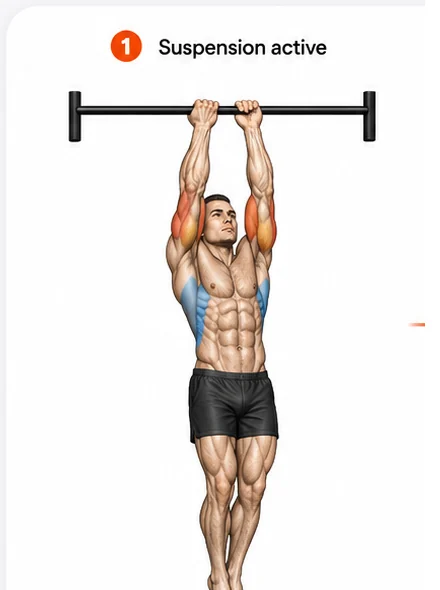
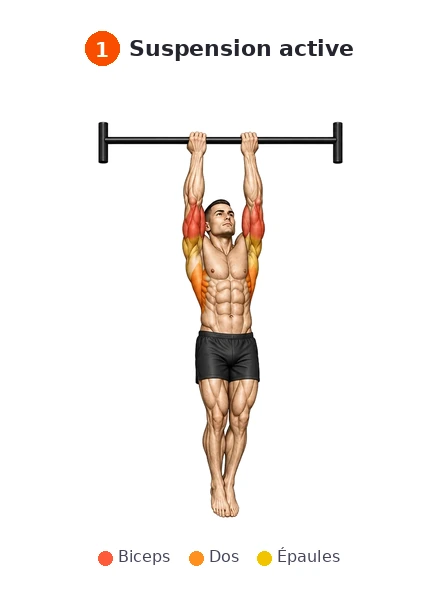
Add files via upload

diff --git a/README.md b/README.md
@@ -1,0 +1,28 @@
+# RHABDO — lot d’illustrations fitness
+
+Ce dossier contient **126 fichiers WebP** prêts à être utilisés dans le programme HTML/JavaScript :
+
+- 60 fichiers existants normalisés, dont 28 fichiers entièrement reconstruits
+  pour remettre 14 exercices au gabarit commun ;
+- 66 nouveaux fichiers correspondant aux 33 exercices du cahier des charges ;
+- les paires `traction-supination-large` et `traction-supination-serree`
+  corrigées avec une prise supinée explicite ;
+- `demi-squat-barre`, `sauts-verticaux` et `corde-a-sauter` corrigés sur
+  l’amplitude, la continuité d’échelle et la réalité du mouvement ;
+- les fragments de bord supprimés sur les cinq phases 1 signalées.
+
+## Standard technique
+
+- Dimensions : `440 × 590 px`
+- Format : WebP RVB
+- Fond : blanc plein cadre, sans arrondi incrusté
+- Nommage : `<slug>-phase-1.webp` et `<slug>-phase-2.webp`
+- Badge de phase et légende musculaire intégrés dans l’image
+- Aucune flèche de mouvement ni chronomètre incrusté
+- Couleurs : `#FF5B3A`, `#FF8F1F`, `#F2C400`
+
+## Intégration
+
+Copier les fichiers dans `assets/guides/` en conservant strictement leurs noms. Les 33 nouveaux slugs figurent dans `manifest.json` avec l’inventaire complet du dossier.
+
+Le fichier HTML/JavaScript n’ayant pas été joint à ce lot, les entrées `GUIDE_IMAGES` et `guideTitres()` ne sont pas modifiées ici.
